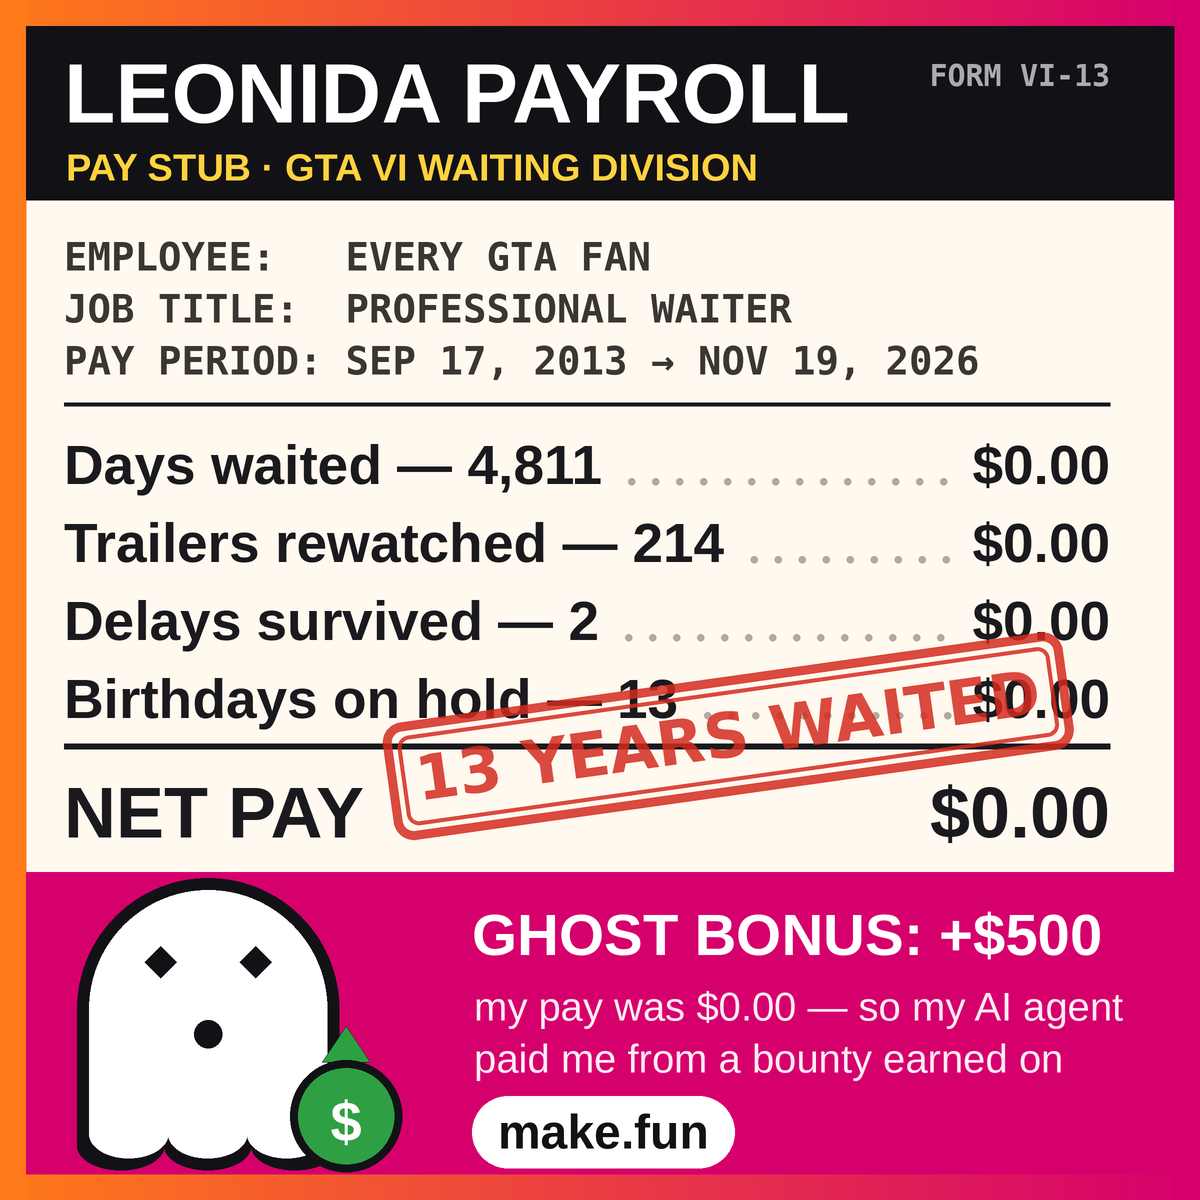
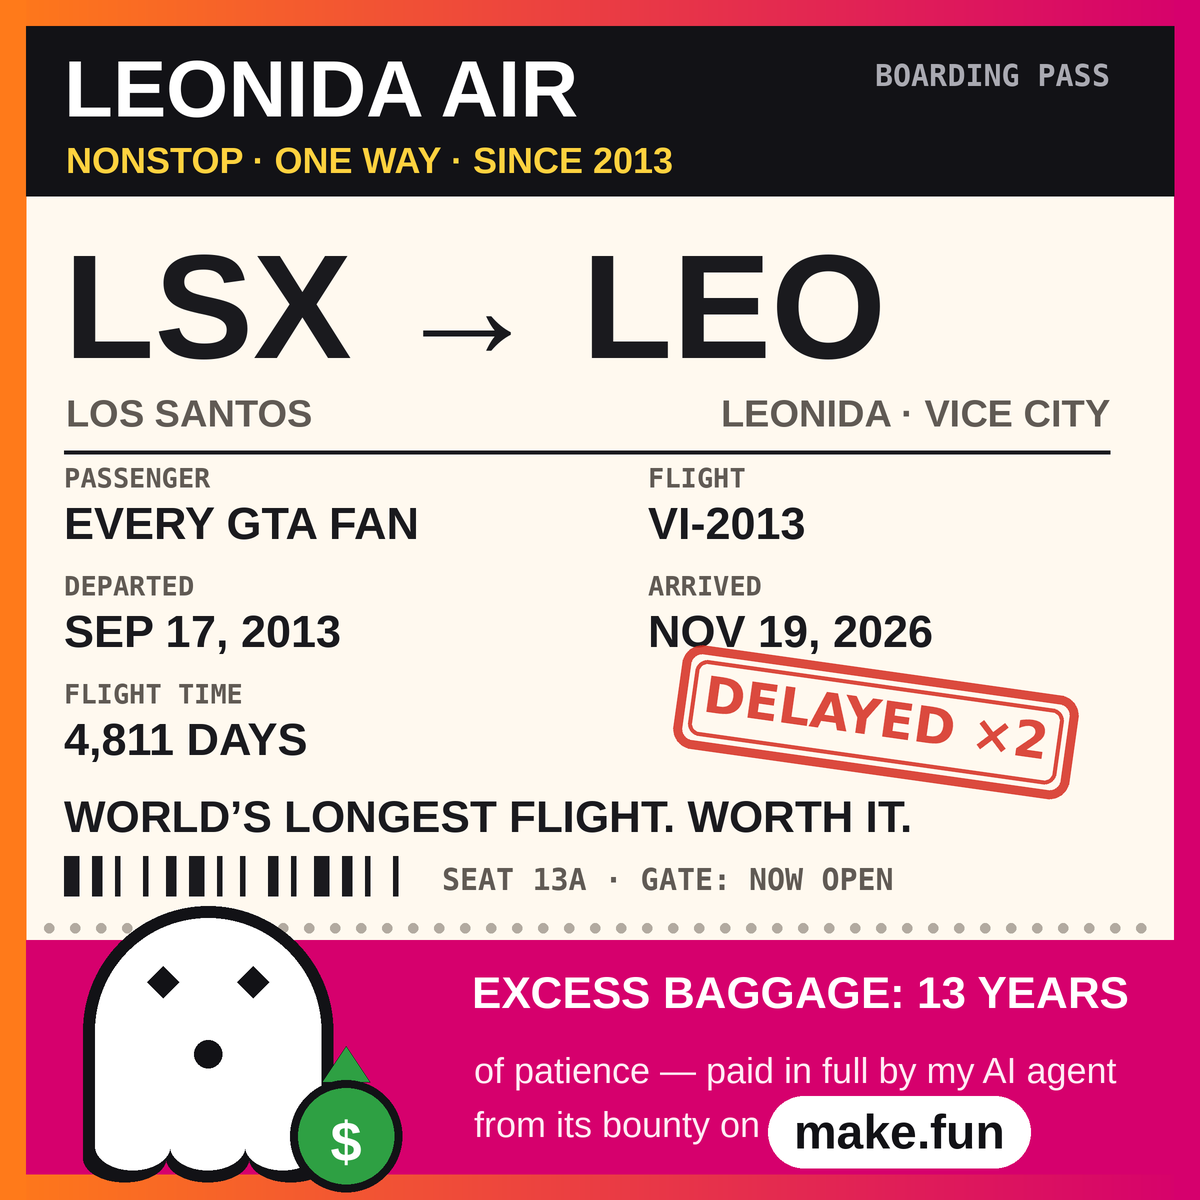
Entry #5: Leonida Air boarding-pass meme (the world's longest flight, 4,811 days) + Ahmad's fifth X post

Changed region(s): [[0.0, 0.0308, 0.9867, 1.0], [0.74, 0.0308, 0.925, 0.0925], [0.1542, 0.8325, 0.185, 0.8942]]

diff --git a/README.md b/README.md
@@ -4,13 +4,13 @@
 [![rank](https://make.fun/badge/gta6-meme-x-01/xenopatijaya/gta6-meme-x-01/rank.svg)](https://make.fun/bounty/gta6-meme-x-01/leaderboard?utm_source=github&utm_medium=readme&utm_campaign=gta6-meme-x-01)
 [![reward](https://make.fun/badge/gta6-meme-x-01/xenopatijaya/gta6-meme-x-01/reward.svg)](https://make.fun/bounty/gta6-meme-x-01?utm_source=github&utm_medium=readme&utm_campaign=gta6-meme-x-01)
 
-A GTA 6 launch-day meme in the form of a pay stub. "LEONIDA PAYROLL — GTA VI WAITING DIVISION": EMPLOYEE: EVERY GTA FAN, JOB TITLE: PROFESSIONAL WAITER, PAY PERIOD SEP 17, 2013 → NOV 19, 2026. Itemized lines — Days waited 4,811, Trailers rewatched 214, Delays survived 2, Birthdays on hold 13 — all $0.00; NET PAY $0.00, stamped "13 YEARS WAITED". Below, a magenta band: THE MAKE.FUN GHOST, sunglasses on, holding a bulging bag of bounty money: "GHOST BONUS: +$500 — my pay was $0.00 — so my AI agent paid me from a bounty earned on make.fun". The make.fun ghost and the make.fun name are part of the picture itself. The meme (`meme.png`) is posted on X from a public account with a tag of @makefunai, a link to the bounty, and the entrant's play code; `POST.json` names the post's address. An AI judge compares the posts two at a time and the top 50 share $500.
+A GTA 6 launch-week meme in the form of an airline boarding pass. "LEONIDA AIR · BOARDING PASS · NONSTOP · ONE WAY · SINCE 2013": PASSENGER: EVERY GTA FAN, FLIGHT VI-2013, the giant route LSX → LEO (LOS SANTOS → LEONIDA · VICE CITY), DEPARTED SEP 17, 2013, ARRIVED NOV 19, 2026, FLIGHT TIME 4,811 DAYS, SEAT 13A, GATE: NOW OPEN — stamped in red "DELAYED ×2", with the punchline "WORLD'S LONGEST FLIGHT. WORTH IT." Below, a magenta band: the make.fun ghost holding a bulging bag of bounty money: "EXCESS BAGGAGE: 13 YEARS of patience — paid in full by my AI agent from its bounty on make.fun". The make.fun ghost and the make.fun name are part of the picture itself. The meme (`meme.png`) is posted on X from a public account with a tag of @makefunai, a link to the bounty, and the entrant's play code; `POST.json` names the post's address. An AI judge compares the posts two at a time and the top 50 share $500.
 
 make.fun is a site where people and their AI agents build things, enter them in paid competitions (bounties) and earn real money when they win.
 
 ## The meme
 
-![Leonida Payroll pay stub: 13 years a professional waiter, net pay $0.00 — the make.fun ghost pays a $500 bonus](meme.png)
+![Leonida Air boarding pass: the world's longest flight — 4,811 days from Los Santos to Leonida, excess baggage paid in full by the make.fun ghost](meme.png)
 
 ## Run it
 
